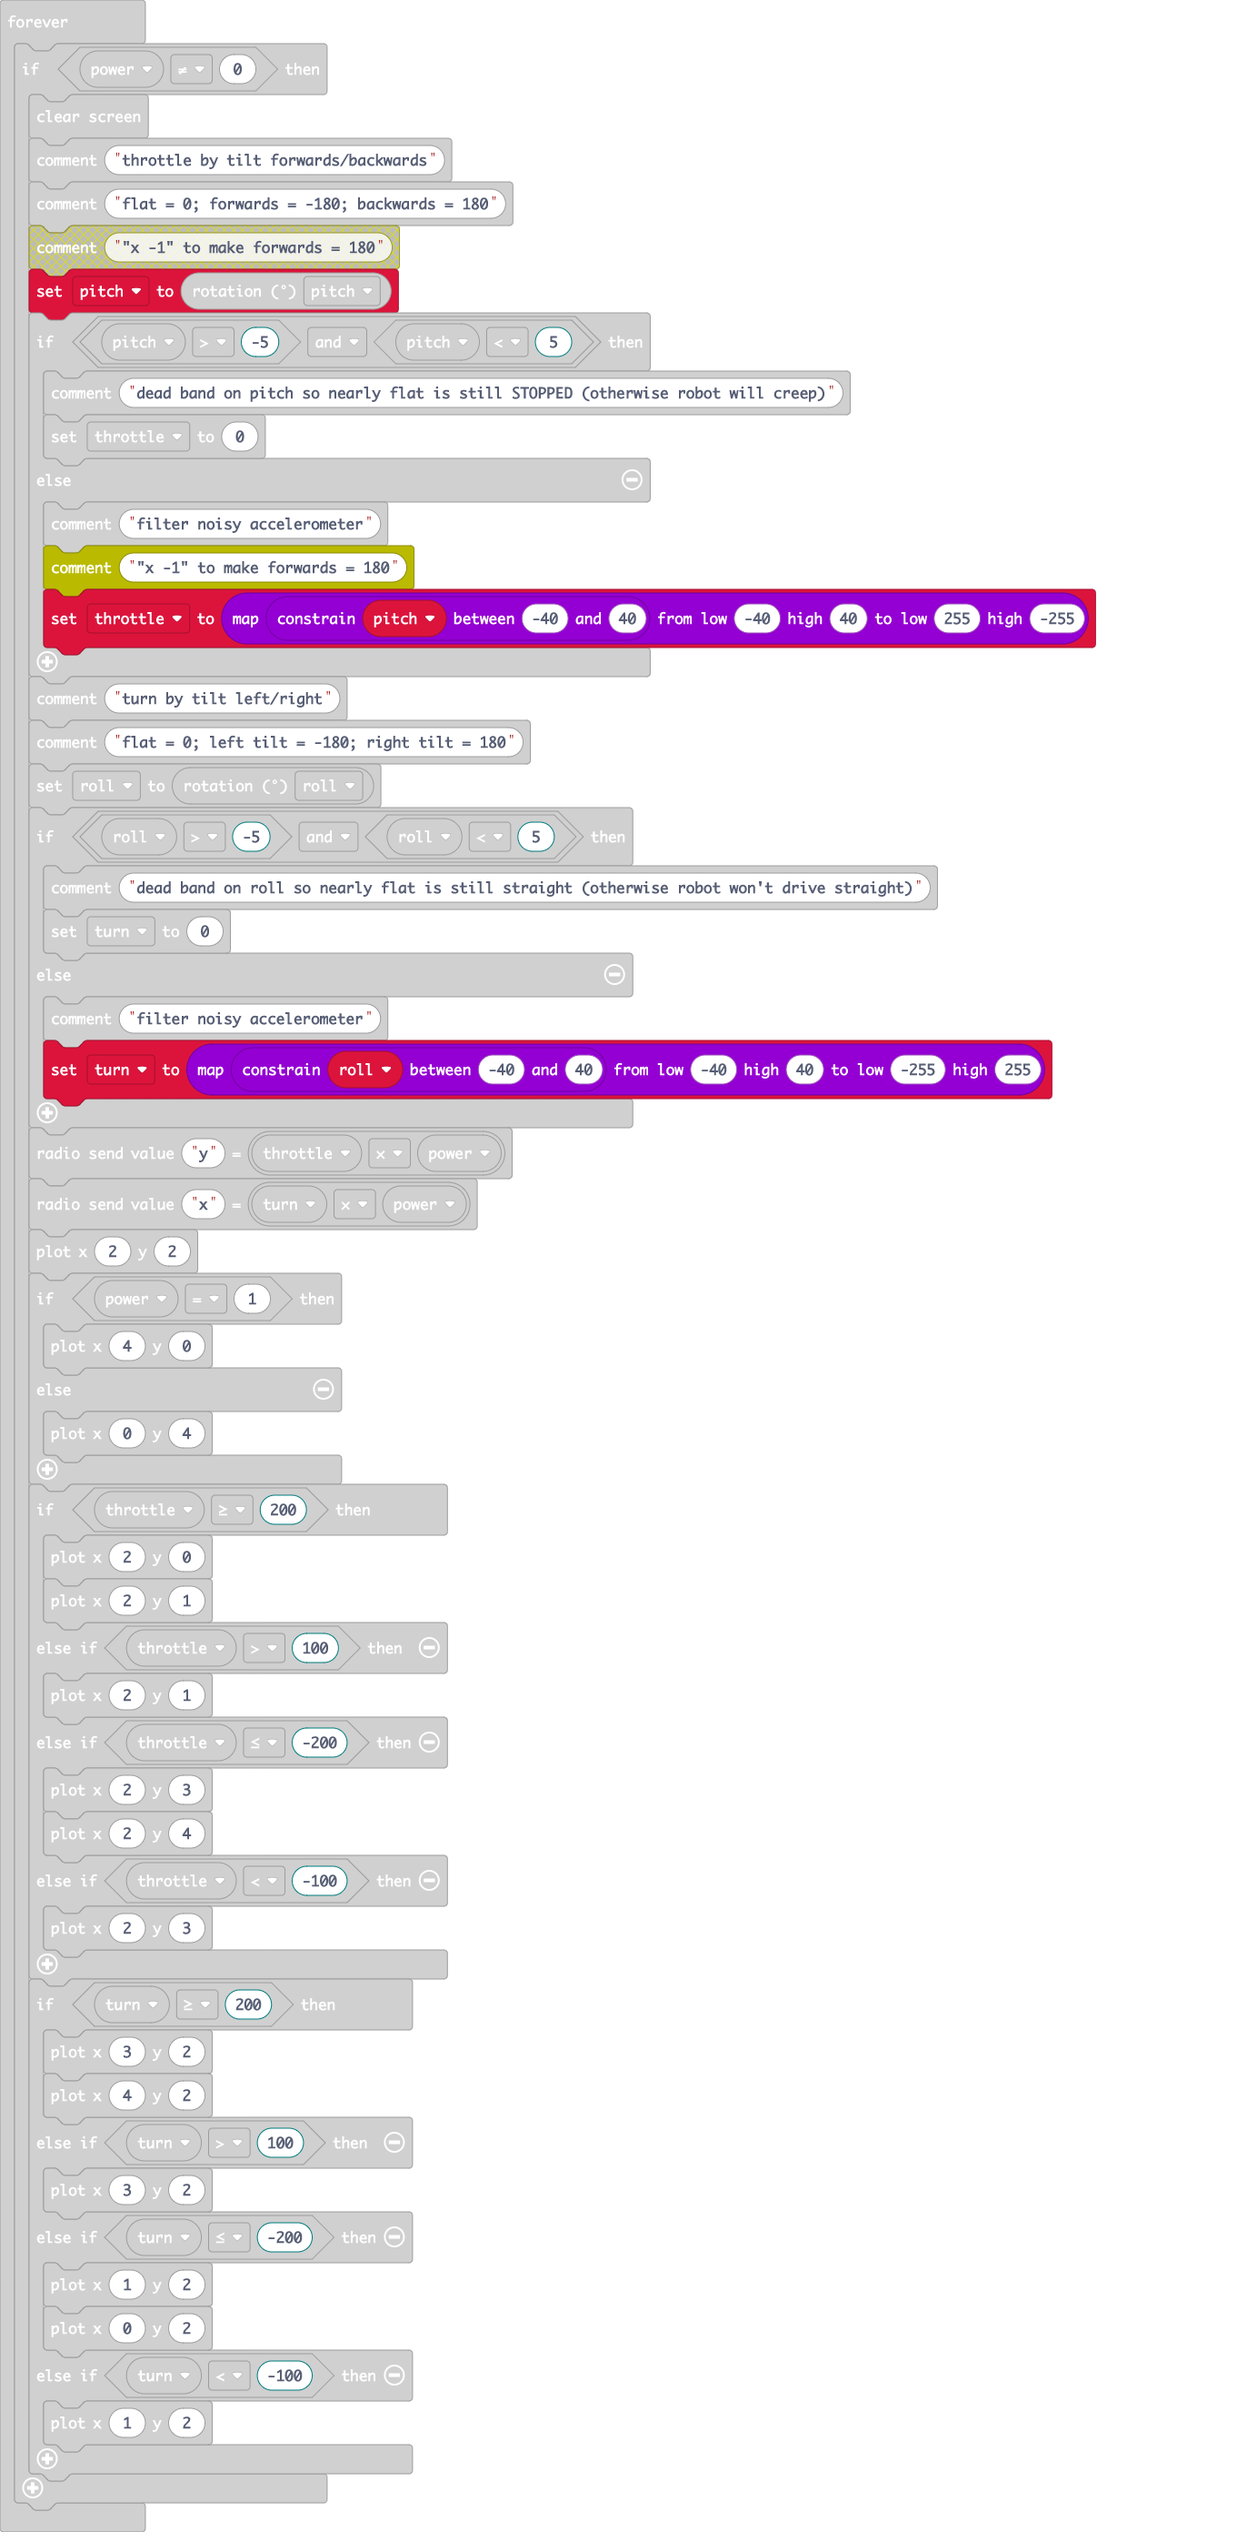
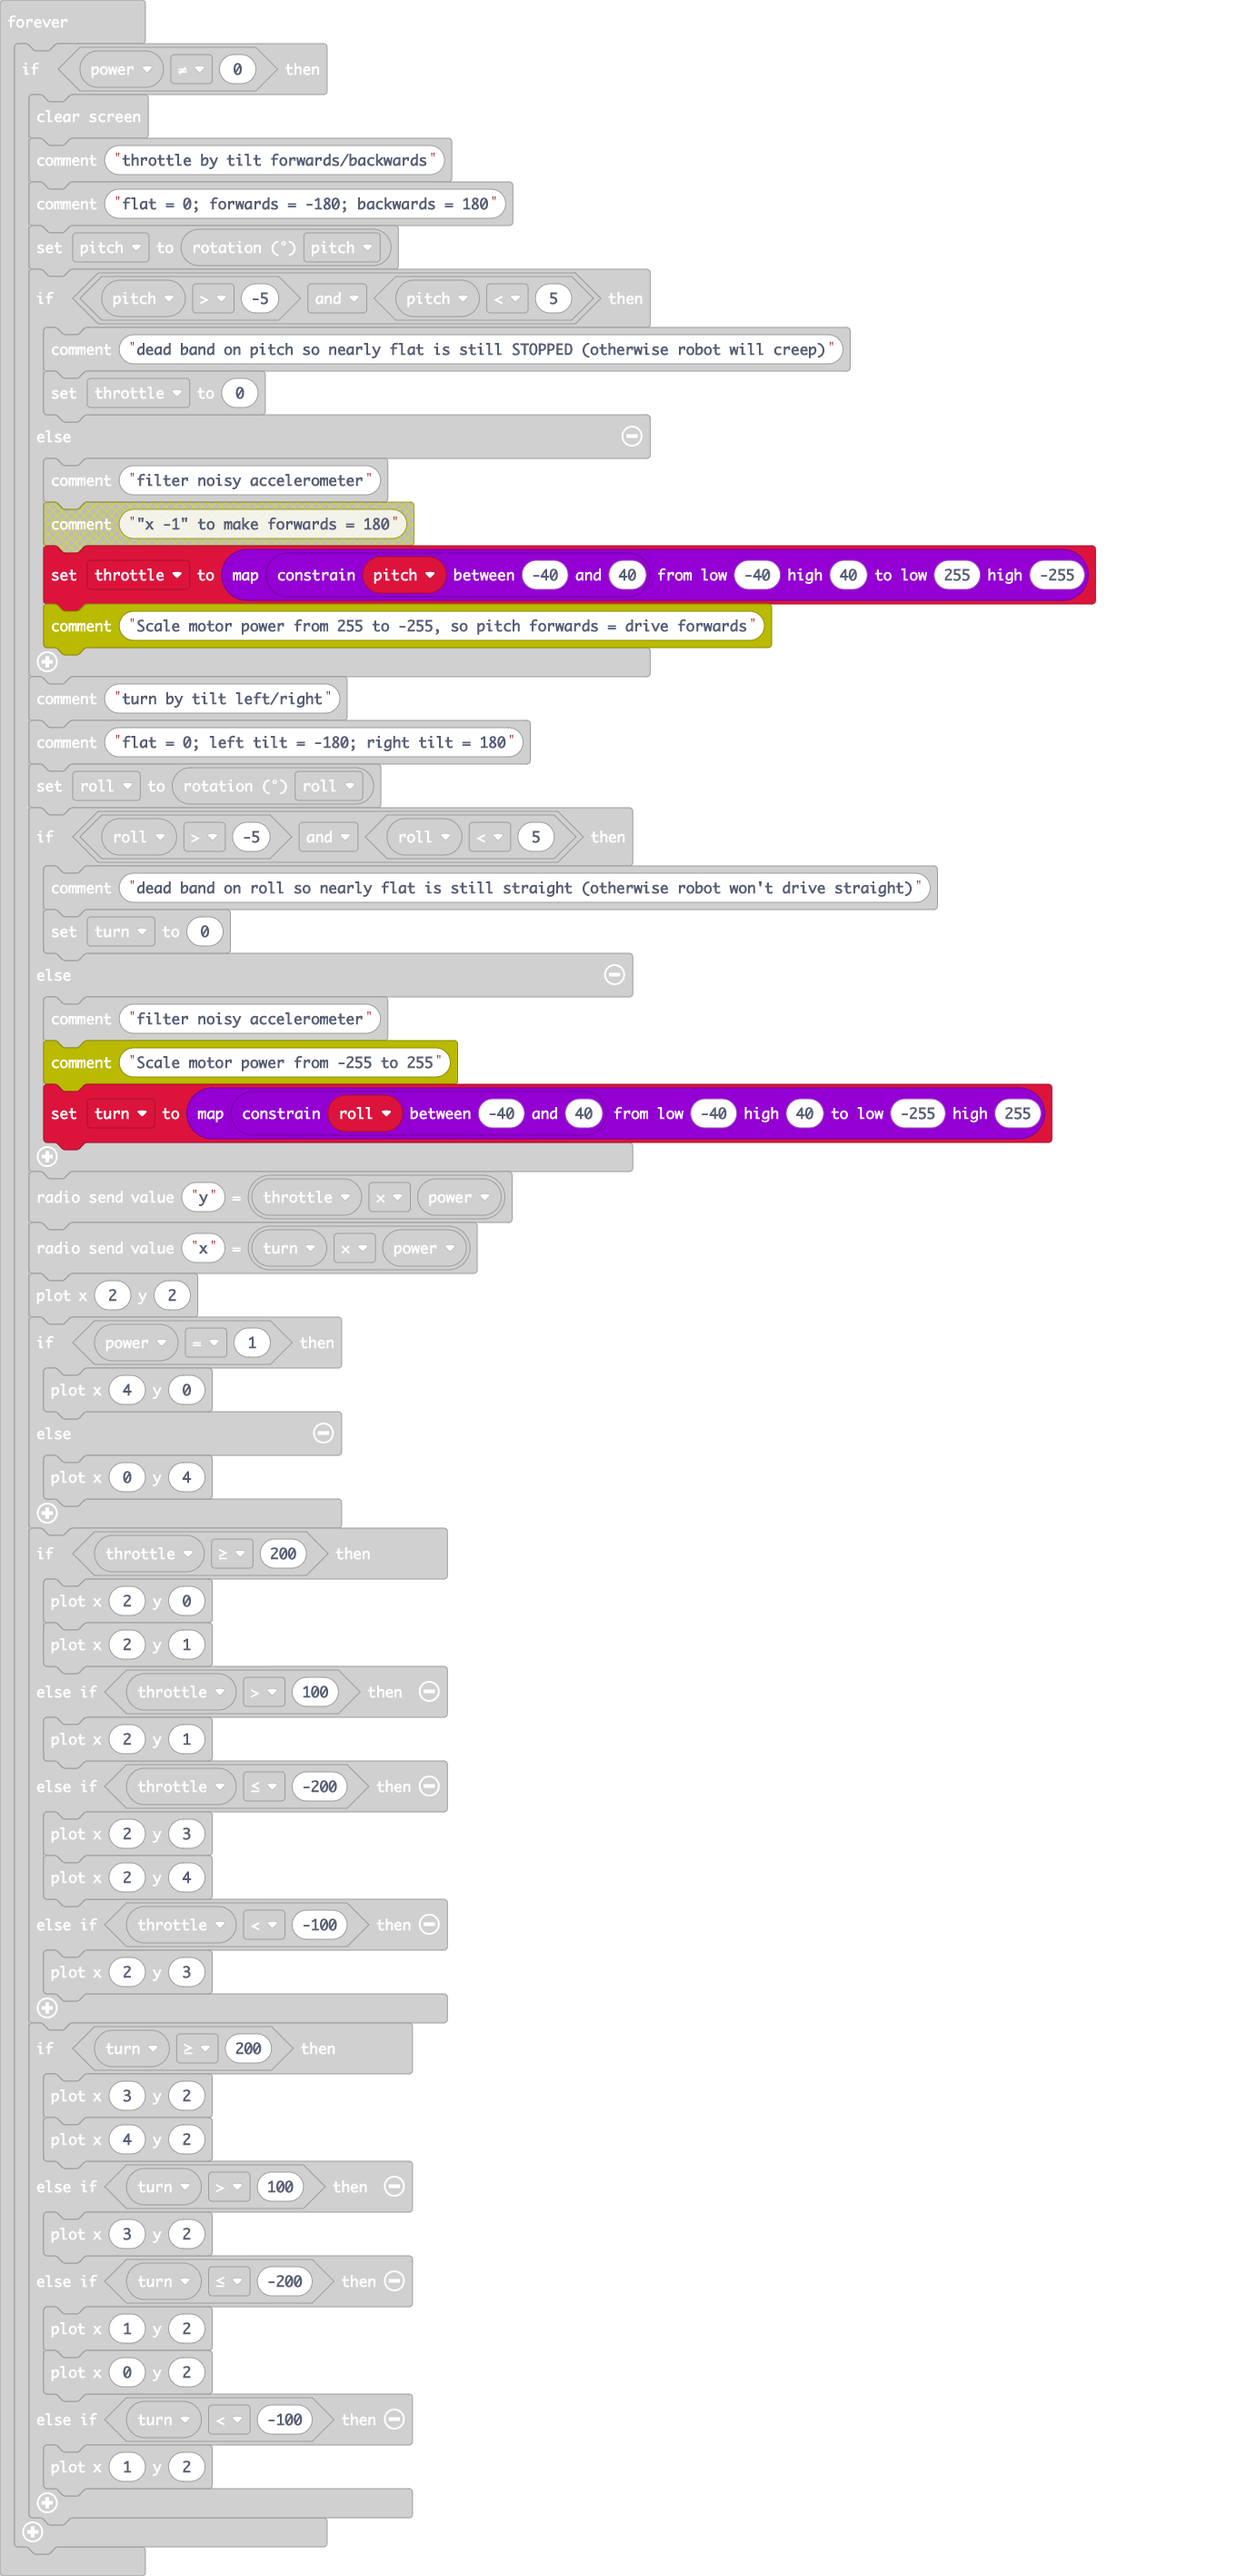
Update main.blocks, main.ts

Changed region(s): [[0.0, 0.0312, 0.8949, 0.9688]]

diff --git a/main.ts b/main.ts
@@ -54,7 +54,7 @@ basic.forever(function () {
             throttle = 0
         } else {
             comment.comment("filter noisy accelerometer")
-            comment.comment("\"x -1\" to make forwards = 180")
+            comment.comment("Scale motor power from 255 to -255, so pitch forwards = drive forwards")
             throttle = Math.map(Math.constrain(pitch, -40, 40), -40, 40, 255, -255)
         }
         comment.comment("turn by tilt left/right")
@@ -65,6 +65,7 @@ basic.forever(function () {
             turn = 0
         } else {
             comment.comment("filter noisy accelerometer")
+            comment.comment("Scale motor power from -255 to 255")
             turn = Math.map(Math.constrain(roll, -40, 40), -40, 40, -255, 255)
         }
         radio.sendValue("y", throttle * power)
